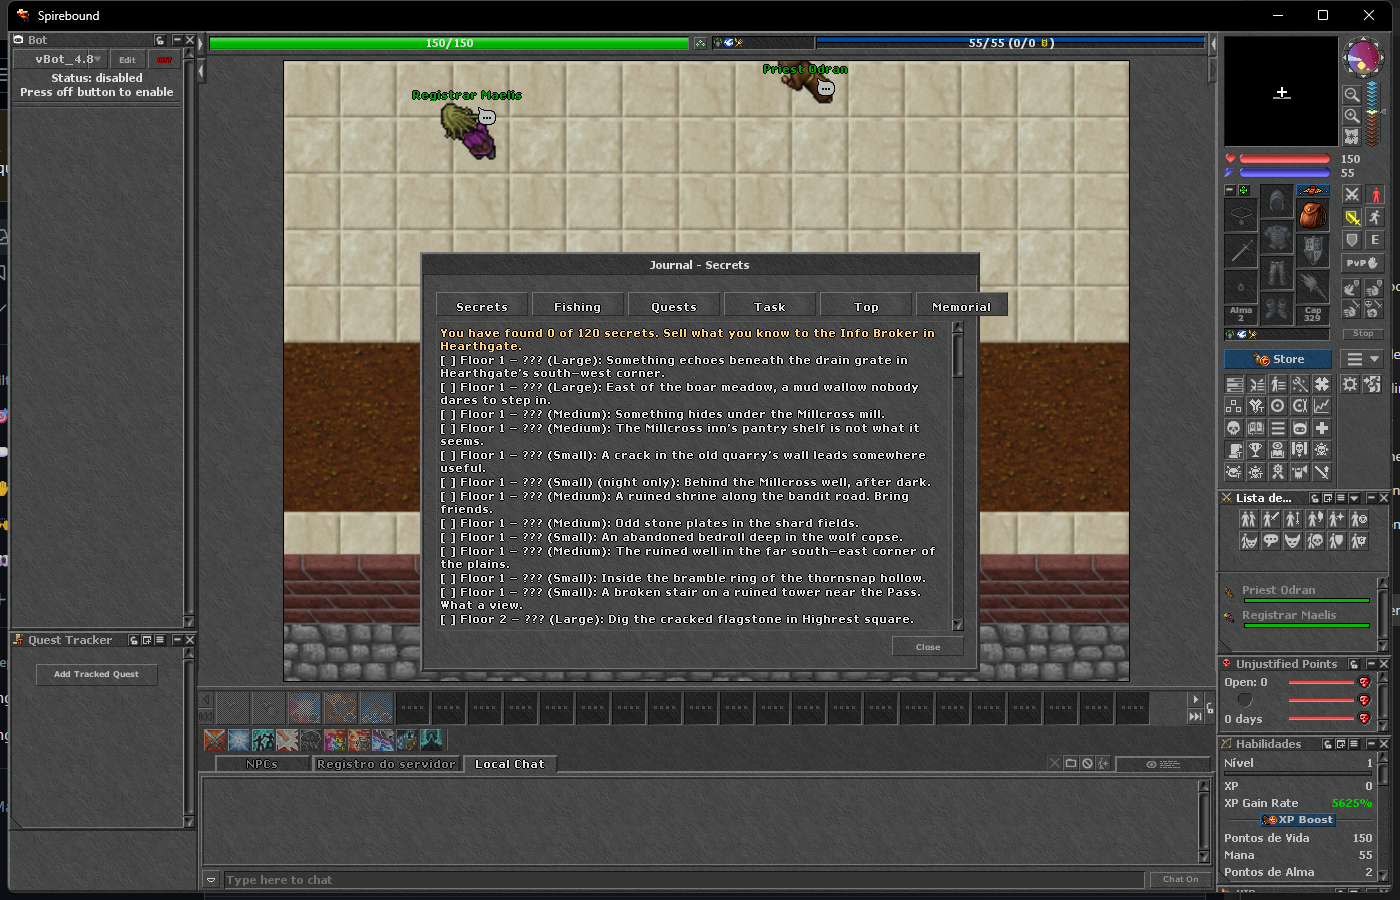
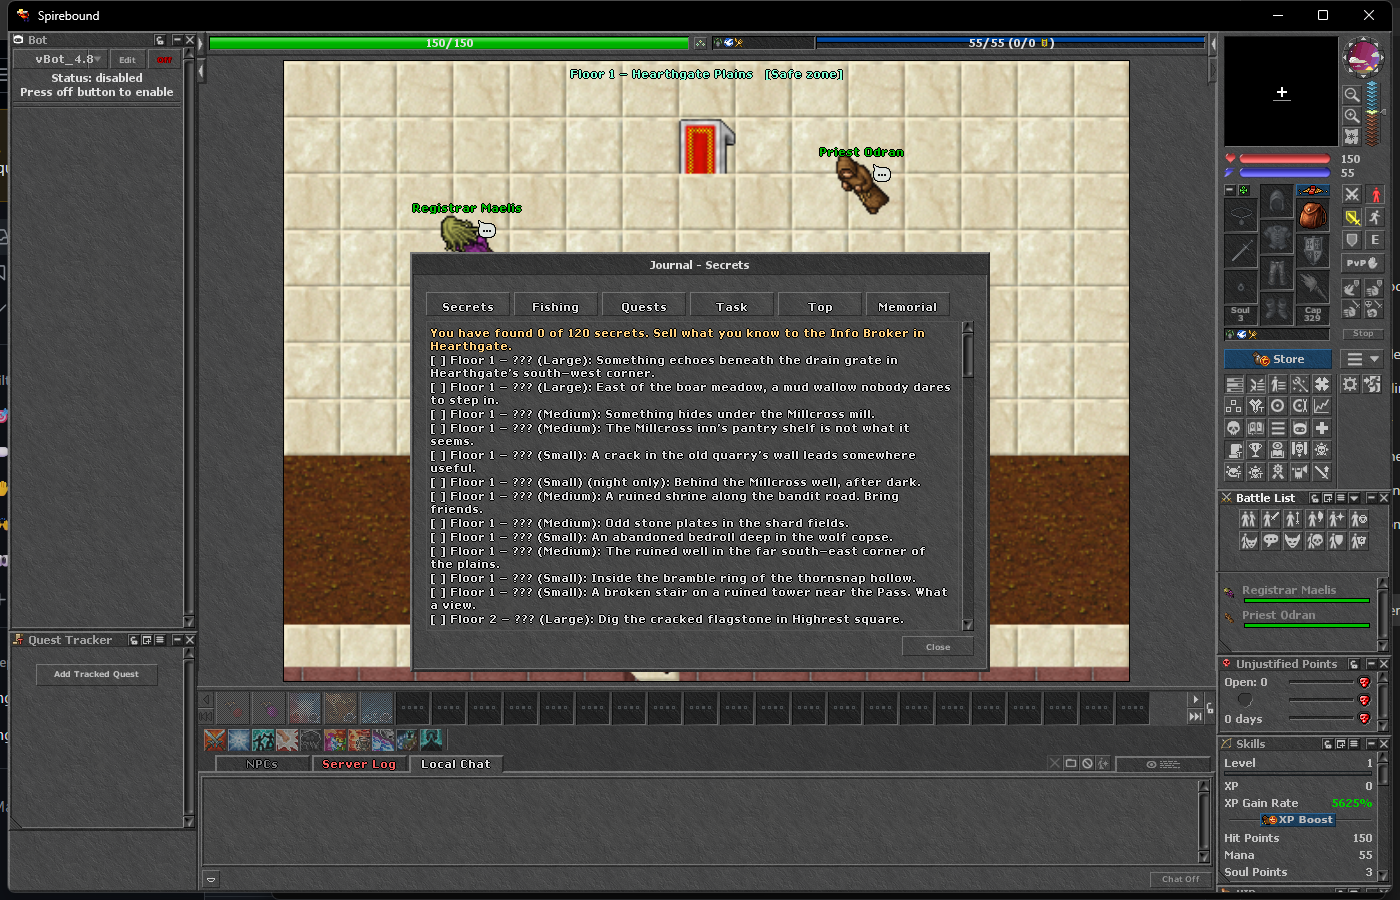
Progress log and roadmap note for the playable client

diff --git a/PROGRESS.md b/PROGRESS.md
@@ -201,3 +201,10 @@ Newest at the bottom. 2–3 lines per finished task, plain English.
 - Done tonight: setup fixes, 6.1 Journal, 6.3 (part) languages, 7.1/7.2b (part) static website, 7.2 closed shop, 10.2 (part) backups. WEEKLY_REPORT.md has a new top section with a 10-minute check list.
 - **Pick up next:** (1) 6.3b translate NPC dialogue/quest text/hints (extend `tools/gen_i18n.py`; the translation hook in `lib/spirebound/i18n.lua` already covers `sendTextMessage` and text dialogs, NPC `say` is not hooked yet); (2) 6.4 custom sprite pipeline (see `tools/appearances.py`); (3) 6.5b Android build in CI; (4) 9.2 bot load test (needs a protocol 15.11 test client). Everything else left in ROADMAP.md needs Jay (playtests, host, prices, art) or a crafting design pass (3.5b).
 - Test command on Jay's PC: `wsl -d Ubuntu -u root -- bash -c 'cd /root/sb && git pull && bash tools/test_boot.sh'` (a clone lives in WSL at /root/sb; MariaDB is installed there and may need `service mariadb start`).
+
+### 2026-11-11 (unattended) — Playable Windows client (Part 1)
+- **The game now runs on Jay's PC and was tested end to end.** Server + database run inside WSL (Ubuntu); the OTClient 4.2 Windows client is built by `windows/Install-Client.ps1` (pins from `server/PINS.env`, assets from the pinned opentibiabr-linked release). Windows reaches the WSL server on ports 8080 (login), 7172 (game) through WSL's localhost forwarding.
+- **Why the old plan could not log in:** OTClient 4.2 uses an HTTP login for clients newer than 12.81 and Canary has no login web service of its own. New `tools/login_server.py` plays that role (checks the account in the database, returns the character list). Without it the client's first packet was rejected silently.
+- **Desktop shortcuts** "Play Spirebound" (backup → start WSL server → wait until ports answer → open client) and "Stop Spirebound". `tools/run_server_wsl.sh` does the server side; backup/restore now use WSL's MariaDB (`tools/db_wsl.sh`) and were tested on a real install. New test characters (one per vocation + a Hardcore one, level 30) in `server/sql/dev_accounts.sql`, kits via `scripts/spirebound/dev_seed.lua`.
+- **Bugs fixed on the way:** the cursor refresh in the client module crashed the Windows client (heap corruption), so it is off (cursors still change on skull updates); Portuguese/Spanish accents showed as garbage because the protocol carries Latin-1 (`SpireI18n.toLatin1`); Journal tabs overflowed the window; WSL's clock drifted (copied from Windows at start); `rsync --delete` kept wiping the server download cache.
+- Proof: `screenshots/` (character in the temple, Journal window, Spanish message). Boot test: 71 in-game tests pass. `tools/winui/*.ps1` drive and screenshot the client for future testing. Read MORNING.md for the checklist.

diff --git a/ROADMAP.md b/ROADMAP.md
@@ -136,5 +136,5 @@ One task per floor: placeholder map, town + NPCs, monsters, apex spawn, field bo
 
 ## Phase 10 — Move to a rented server (only after Jay says testing is done)
 - [ ] **10.1 🧑 Jay picks a host** (QUESTIONS.md has options and prices).
-- [ ] **10.2 Server setup scripts, backups, monitoring.** *(Part done for Jay's PC: Backup-Spirebound.bat, Restore-Spirebound.bat, automatic backup at each start. Not yet run on a real install. Rented-server scripts and monitoring wait for 10.1.)*
+- [ ] **10.2 Server setup scripts, backups, monitoring.** *(Part done for Jay's PC and tested on 2026-11-11: Backup-Spirebound.bat, Restore-Spirebound.bat, automatic backup at each start (the database lives in WSL). Rented-server scripts and monitoring wait for 10.1.)*
 - [ ] **10.3 Launch checklist** (all placeholders replaced, rules page, Discord, countdown).
